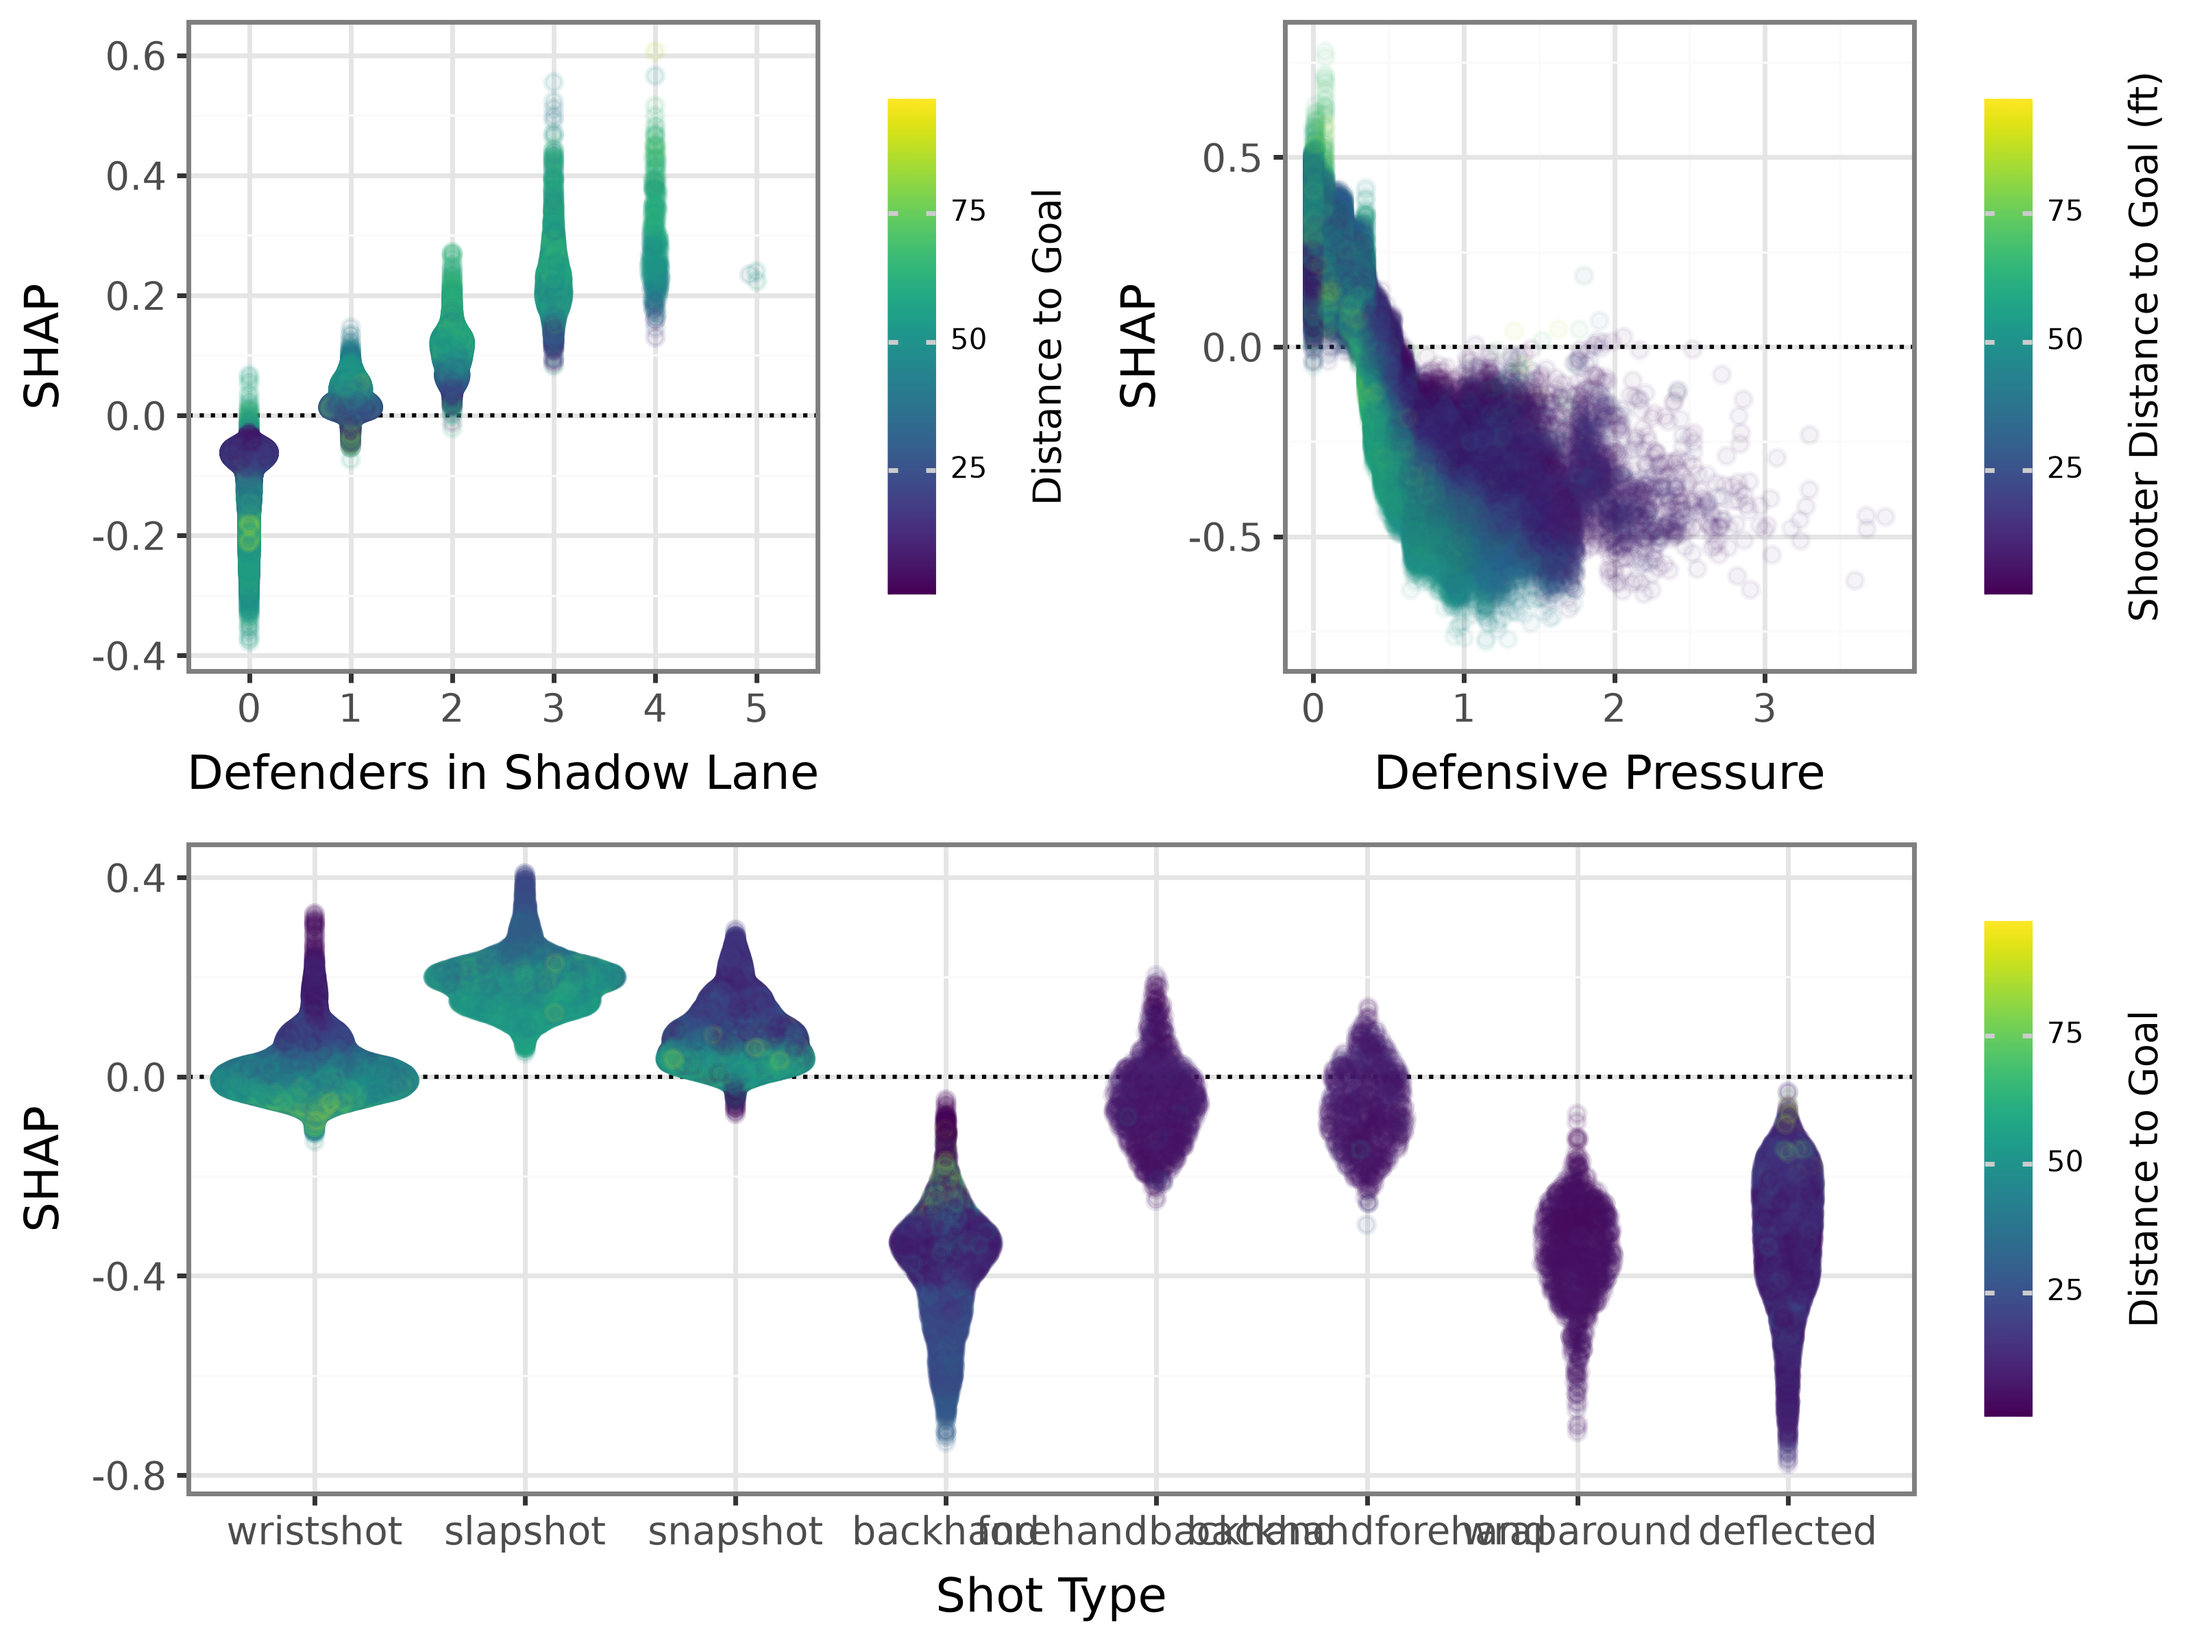
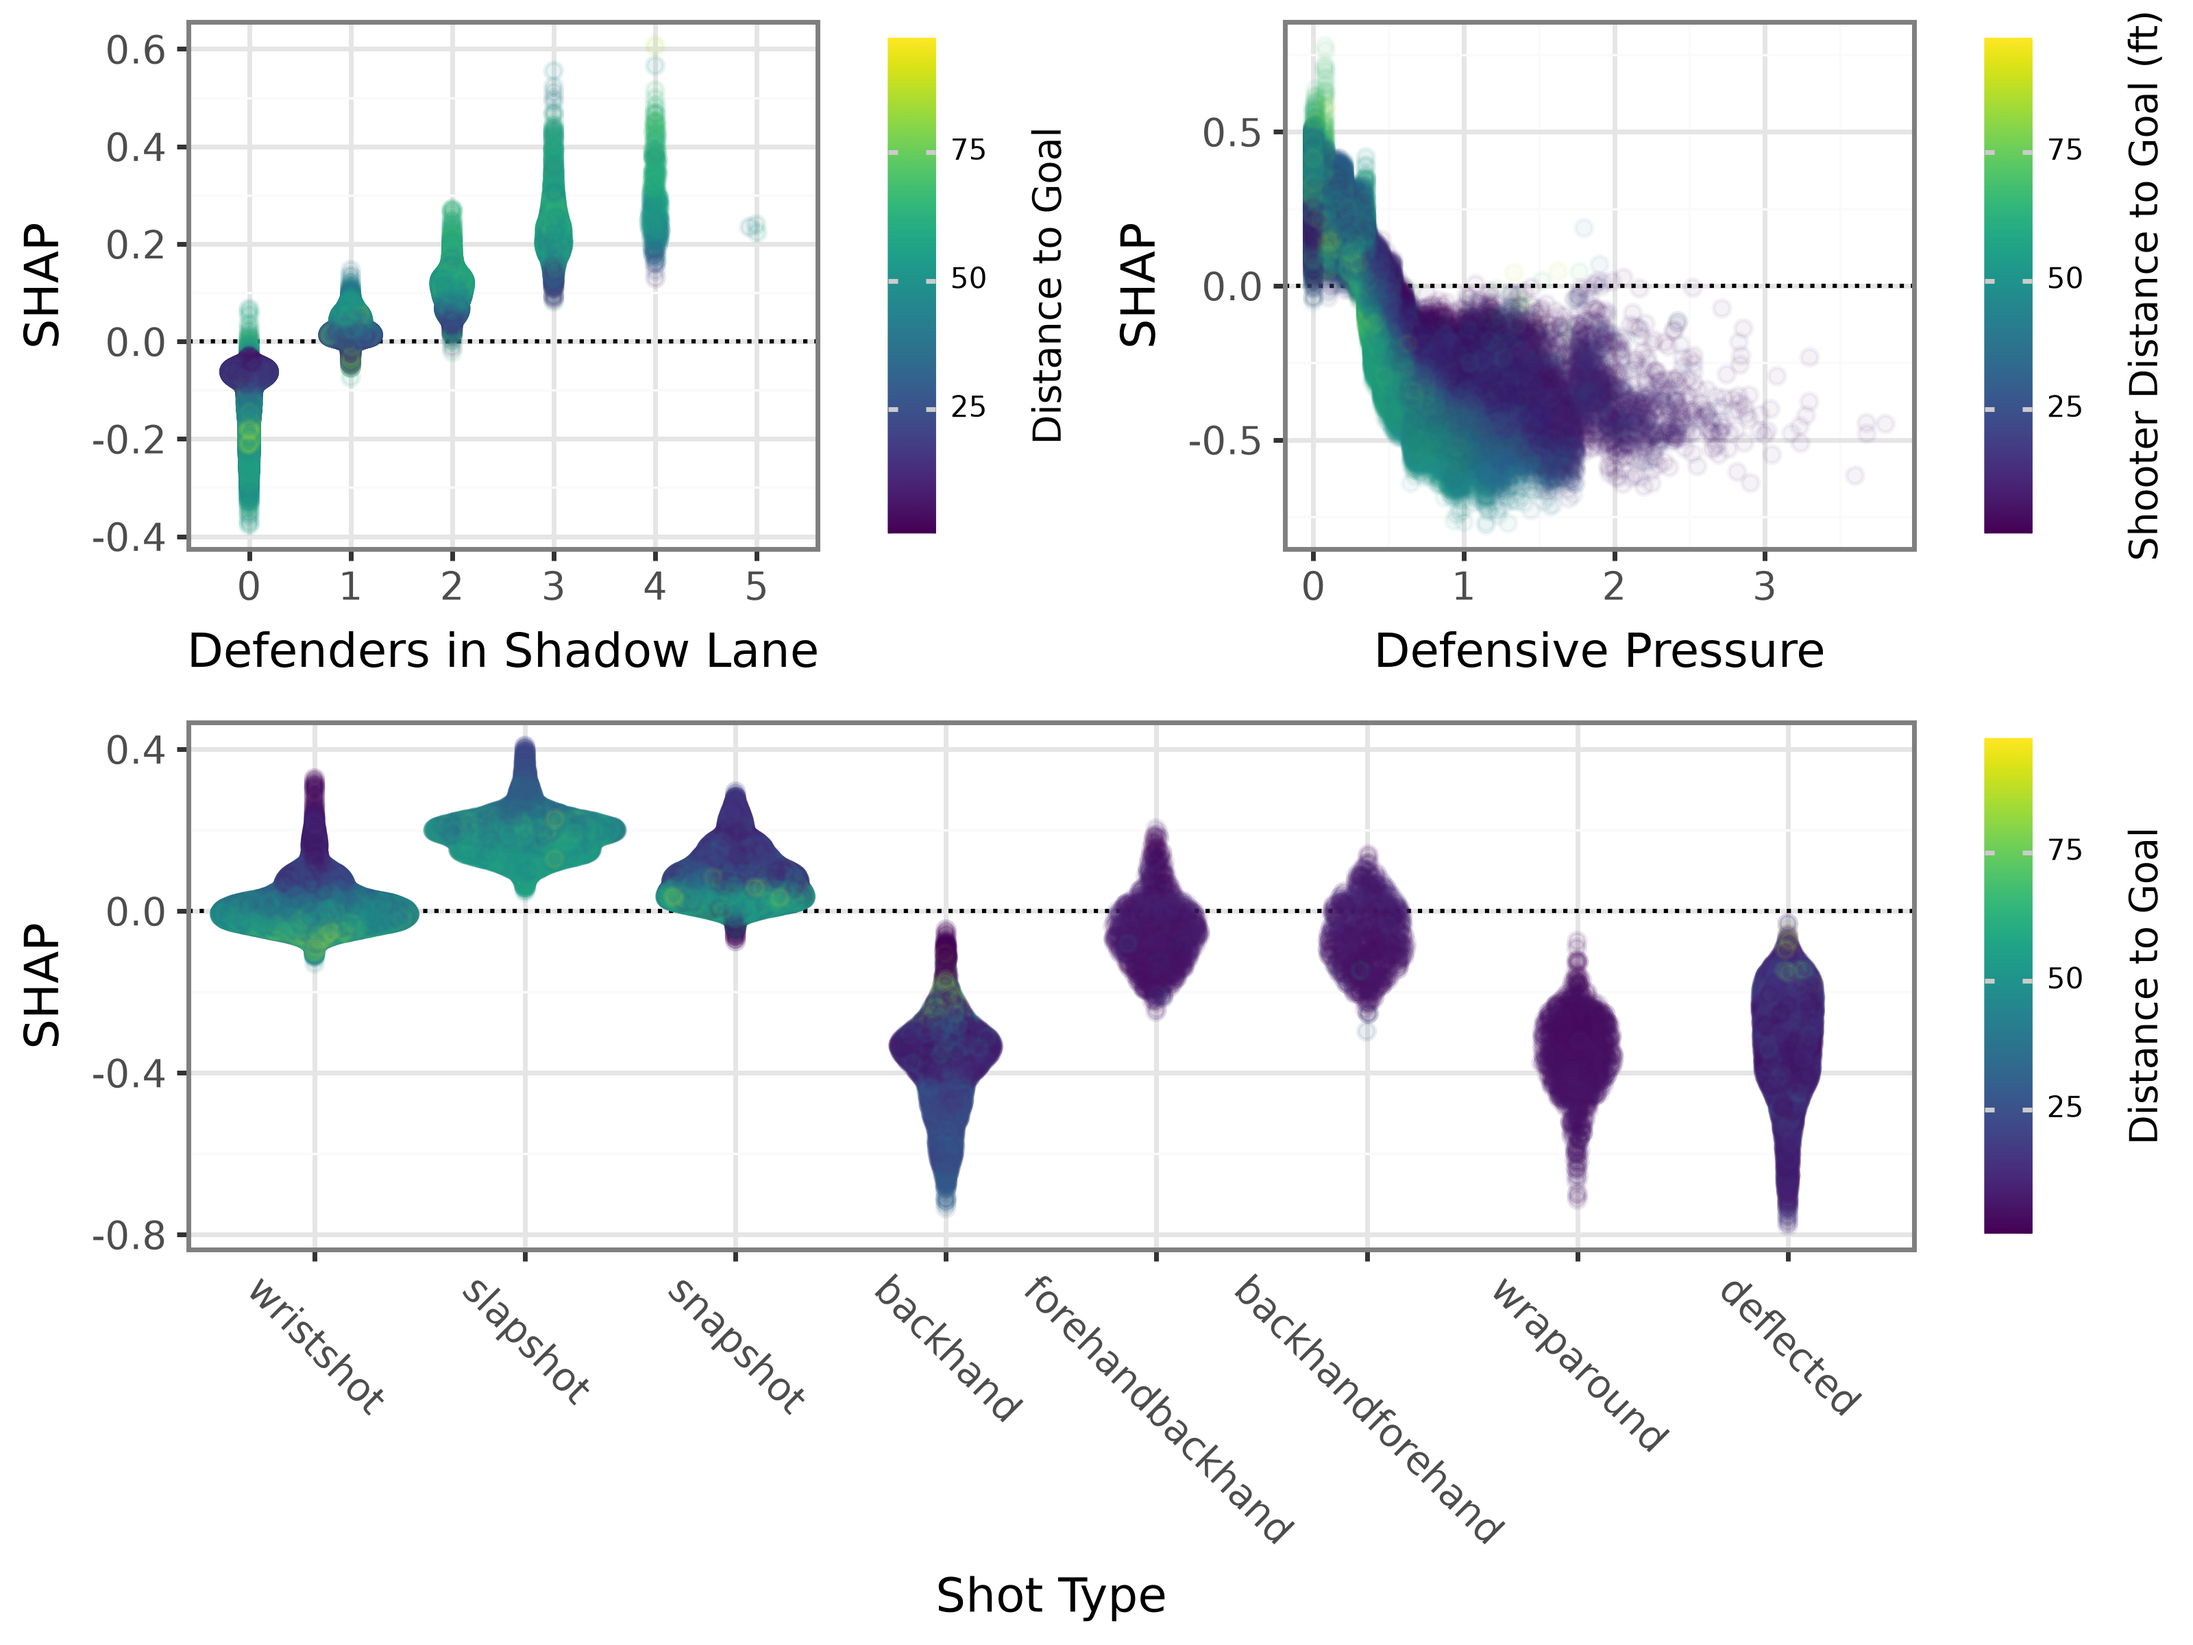
Fix defender plots to have diagonal text on shot type

diff --git a/notebooks/interpretation/pre_shot_feature_dependence.py b/notebooks/interpretation/pre_shot_feature_dependence.py
@@ -110,6 +110,12 @@ def _(custom_theme, features_dict, shap_values):
 
 
 @app.cell
+def _(shap_df):
+    plot_data = shap_df.with_columns(c('num_defenders_in_shadow_lane', 'goalie_in_shooting_lane').cast(pl.String))
+    return (plot_data,)
+
+
+@app.cell
 def _(shap_dependence_plot, shap_df):
     distance_plot = shap_dependence_plot(shap_df, "shooter_dist_to_goal")
     angle_plot = shap_dependence_plot(shap_df, "shooter_angle_to_goal")
@@ -151,9 +157,7 @@ def _(custom_theme, plot_data, shap_dependence_plot, shap_df):
 
 
 @app.cell
-def _(custom_theme, shap_dependence_plot, shap_df):
-    plot_data = shap_df.with_columns(c('num_defenders_in_shadow_lane', 'goalie_in_shooting_lane').cast(pl.String))
-
+def _(custom_theme, plot_data, shap_dependence_plot, shap_df):
     defender_lane_plot = (
         ggplot(plot_data, aes(x="num_defenders_in_shadow_lane", y="num_defenders_in_shadow_lane_shap", colour="shooter_dist_to_goal"))
         + p9.geom_hline(yintercept=0, linetype="dotted")
@@ -169,14 +173,14 @@ def _(custom_theme, shap_dependence_plot, shap_df):
         + p9.geom_hline(yintercept=0, linetype="dotted")
         + p9.geom_sina(alpha=0.1, random_state=54)
         + labs(x="Shot Type", y="SHAP", colour="Distance to Goal")
-        + p9.theme(axis_text_x=p9.element_text(rotation=45))
         + custom_theme
+        + p9.theme(axis_text_x=p9.element_text(rotation=-45))
     )
 
     defender_plots = (defender_lane_plot | pressure_plot) / shot_type_plot
-    defender_plots.save("plots/interpretation/defender_plots_shap.png", width=6, height=6, dpi=500)
+    # defender_plots.save("plots/interpretation/defender_plots_shap.png", width=6, height=6, dpi=500)
     defender_plots
-    return (plot_data,)
+    return
 
 
 if __name__ == "__main__":
